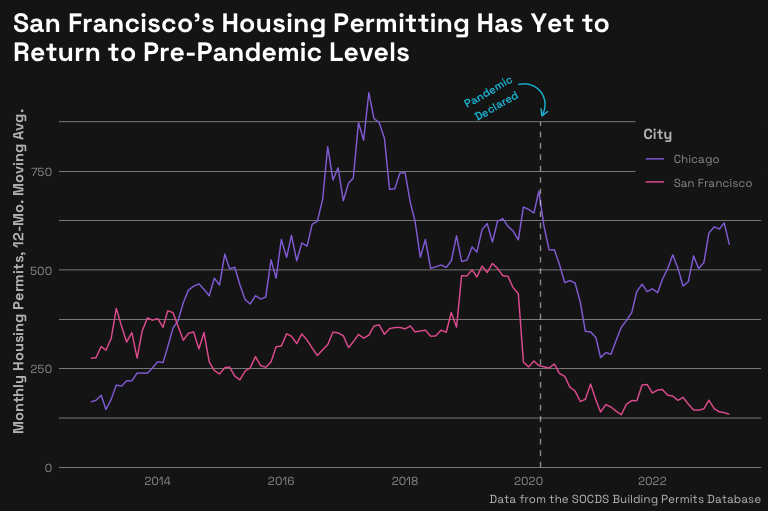
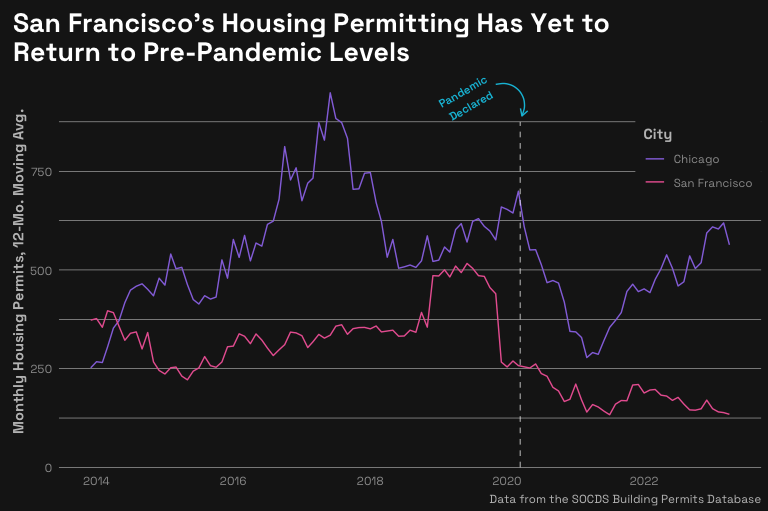
updated data source folder 'data'

diff --git a/chicago-sf-comparison/chicago-sf-comparison.md b/chicago-sf-comparison/chicago-sf-comparison.md
@@ -8,6 +8,9 @@ library(here)
 library(zoo)
 ```
 
+Note: It appears the San Francisco Data Portal’s API is not returning
+the dataset, meaning the first graph lacks San Francisco’s data.
+
 ``` r
 sf_permits <- read.socrata("https://data.sfgov.org/resource/p4e4-a5a7.csv?$query=SELECT permit_number, permit_type_definition, permit_creation_date, street_number, street_name, street_suffix, status, issued_date, revised_cost, existing_use, proposed_use, existing_units, proposed_units, location WHERE permit_type_definition='new construction' OR permit_type_definition='new construction wood frame' OR proposed_units>existing_units LIMIT 30000")
 
@@ -159,15 +162,8 @@ sf_permit_test <- read.socrata("https://data.sfgov.org/resource/p4e4-a5a7.csv?$q
 sf_permit_test
 ```
 
-                   permit_type_definition
-    1              otc alterations permit
-    2                        sign - erect
-    3    additions alterations or repairs
-    4         new construction wood frame
-    5                         demolitions
-    6                    new construction
-    7                wall or painted sign
-    8 grade or quarry or fill or excavate
+    [1] permit_type_definition
+    <0 rows> (or 0-length row.names)
 
 ``` r
 # Shows that `new construction` and `new construction wood frame` are indeed the only two new construction permit types.
@@ -223,15 +219,16 @@ Unfortunately, I have to download it to a CSV to work with it, but it’s
 already a really tidy dataset and I’m glad to have some consistency.
 
 ``` r
-chi_hud_permits <- read_csv(here("CSV", "chicago_housing-permits.csv"))
-sf_hud_permits <- read_csv(here("CSV", "sanfrancisco_housing-permits.csv"))
+chi_hud_permits <- read_csv(here("data", "housing-permits", "chicago_housing-permits.csv"))
+sf_hud_permits <- read_csv(here("data", "housing-permits", "san-francisco_housing-permits.csv"))
 ```
 
 ``` r
 chi_hud_total <- chi_hud_permits %>% 
   filter(
     Series == "Total Units",
-    Permits > 0
+    Permits > 0,
+    Year > 2012
   ) %>% 
   mutate(
     moving_avg = rollmean(Permits, k = 12, fill = NA, align = "right")
@@ -240,7 +237,8 @@ chi_hud_total <- chi_hud_permits %>%
 sf_hud_total <- sf_hud_permits %>% 
   filter(
     Series == "Total Units",
-    Permits > 0
+    Permits > 0,
+    Year > 2012
   ) %>% 
   mutate(
     moving_avg = rollmean(Permits, k = 12, fill = NA, align = "right")
